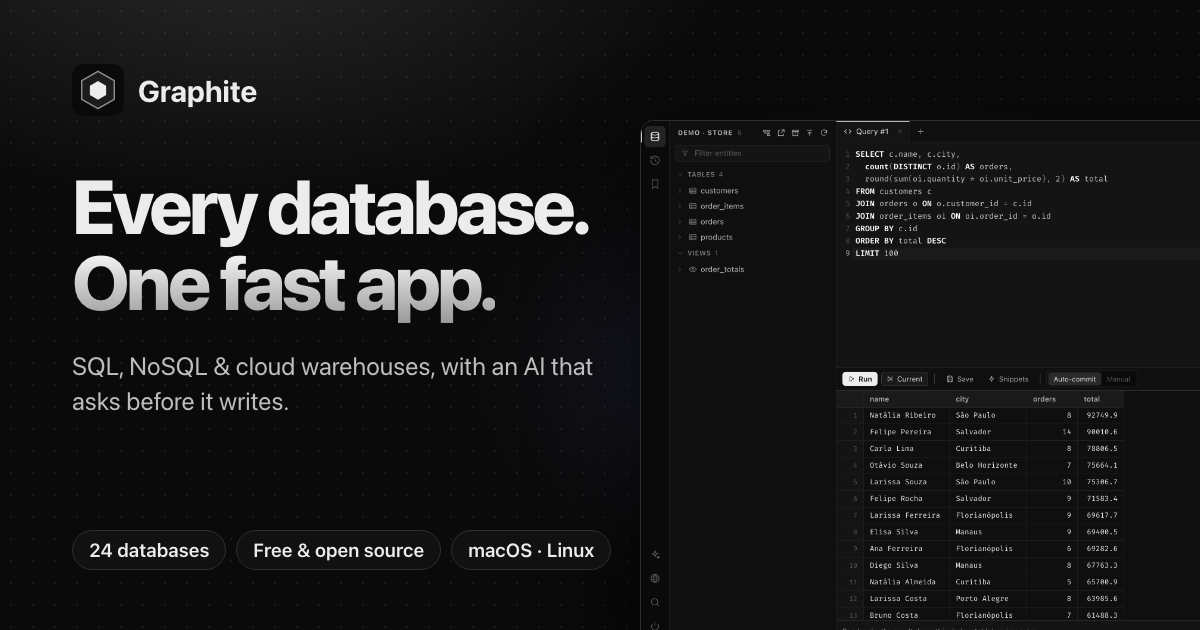
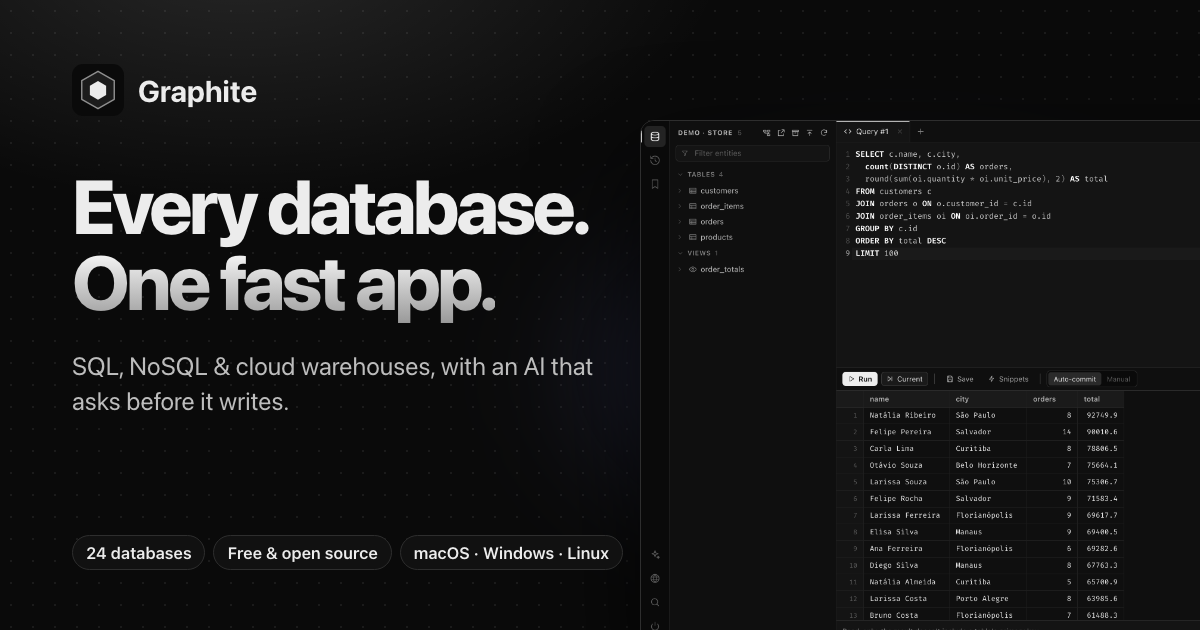
Site and README: SEO and discoverability
- Title and description with the words people search for (free database
  client, PostgreSQL / MySQL / MongoDB GUI), Windows included.
- Canonical, hreflang alternates and ?lang=pt / ?lang=es URLs, so search
  engines index the Portuguese and Spanish pages; title, description and
  canonical follow the language, and switching it updates the address.
- JSON-LD SoftwareApplication and FAQPage, keywords, robots, og:locale.
- A FAQ section (free? which databases? Windows/Linux? alternative to
  DBeaver/TablePlus/DataGrip? AI? passwords?) in the three languages.
- sitemap.xml with the language alternates.
- og.png and README badges now list Windows.

Changed region(s): [[0.0617, 0.8444, 0.5242, 0.9048]]

diff --git a/docs/index.html b/docs/index.html
@@ -3,24 +3,144 @@
 <head>
   <meta charset="utf-8">
   <meta name="viewport" content="width=device-width, initial-scale=1">
-  <title>Graphite — every database, one fast app</title>
-  <meta name="description" content="Browse, query and edit PostgreSQL, MySQL, SQL Server, Oracle, MongoDB, Redis, DynamoDB, ClickHouse and 16 more databases in one fast desktop app. Built-in AI assistant and MCP server, and every write waits for your approval. Free and open source for macOS and Linux.">
+  <title>Graphite — Free Database Client for PostgreSQL, MySQL, MongoDB &amp; 21 more</title>
+  <meta name="description" content="Free, open-source database GUI for macOS, Windows and Linux. Query and edit PostgreSQL, MySQL, SQL Server, Oracle, MongoDB, Redis, DynamoDB, ClickHouse and 16 more, with a built-in AI assistant and MCP server.">
+  <meta name="keywords" content="database client, database GUI, SQL client, SQL editor, free database tool, open source database client, PostgreSQL GUI, MySQL client, MongoDB GUI, Redis GUI, SQL Server client, Oracle client, DynamoDB GUI, ClickHouse client, DuckDB, SQLite browser, DBeaver alternative, TablePlus alternative, DataGrip alternative, Beekeeper Studio alternative, MCP server, AI SQL assistant">
+  <meta name="author" content="Julio Zimmermann">
+  <meta name="robots" content="index, follow, max-image-preview:large">
   <meta name="theme-color" content="#0a0a0a">
+  <link rel="canonical" href="https://julioczn.github.io/graphite/" data-canonical>
+  <link rel="alternate" hreflang="en" href="https://julioczn.github.io/graphite/">
+  <link rel="alternate" hreflang="pt-BR" href="https://julioczn.github.io/graphite/?lang=pt">
+  <link rel="alternate" hreflang="es" href="https://julioczn.github.io/graphite/?lang=es">
+  <link rel="alternate" hreflang="x-default" href="https://julioczn.github.io/graphite/">
+  <link rel="sitemap" type="application/xml" href="sitemap.xml">
   <link rel="icon" href="assets/icon.svg" type="image/svg+xml">
   <link rel="apple-touch-icon" href="assets/icon.png">
   <meta property="og:type" content="website">
   <meta property="og:site_name" content="Graphite">
+  <meta property="og:locale" content="en_US">
+  <meta property="og:locale:alternate" content="pt_BR">
+  <meta property="og:locale:alternate" content="es_ES">
   <meta property="og:title" content="Graphite — every database, one fast app">
-  <meta property="og:description" content="SQL, NoSQL and cloud warehouses: 24 databases in one free desktop app, with an AI assistant that asks before it writes.">
+  <meta property="og:description" content="SQL, NoSQL and cloud warehouses: 24 databases in one free, open-source desktop app for macOS, Windows and Linux, with an AI assistant that asks before it writes.">
   <meta property="og:url" content="https://julioczn.github.io/graphite/">
   <meta property="og:image" content="https://julioczn.github.io/graphite/assets/og.png">
   <meta property="og:image:width" content="1200">
   <meta property="og:image:height" content="630">
-  <meta property="og:image:alt" content="Graphite: every database, one fast app">
+  <meta property="og:image:alt" content="Graphite: every database, one fast app. 24 databases, free and open source, for macOS, Windows and Linux">
   <meta name="twitter:card" content="summary_large_image">
   <meta name="twitter:title" content="Graphite — every database, one fast app">
-  <meta name="twitter:description" content="SQL, NoSQL and cloud warehouses: 24 databases in one free desktop app, with an AI assistant that asks before it writes.">
+  <meta name="twitter:description" content="SQL, NoSQL and cloud warehouses: 24 databases in one free, open-source desktop app for macOS, Windows and Linux, with an AI assistant that asks before it writes.">
   <meta name="twitter:image" content="https://julioczn.github.io/graphite/assets/og.png">
+  <meta name="twitter:image:alt" content="Graphite: every database, one fast app">
+  <script type="application/ld+json">
+{
+  "@context": "https://schema.org",
+  "@type": "SoftwareApplication",
+  "name": "Graphite",
+  "alternateName": "Graphite database client",
+  "description": "Free, open-source desktop database client for 24 SQL, NoSQL and cloud warehouse databases, with a built-in AI assistant and MCP server.",
+  "applicationCategory": "DeveloperApplication",
+  "applicationSubCategory": "Database client",
+  "operatingSystem": "macOS, Windows 10, Windows 11, Linux",
+  "url": "https://julioczn.github.io/graphite/",
+  "downloadUrl": "https://github.com/julioczn/graphite/releases/latest",
+  "installUrl": "https://julioczn.github.io/graphite/#download",
+  "screenshot": [
+    "https://julioczn.github.io/graphite/assets/screenshots/query.png",
+    "https://julioczn.github.io/graphite/assets/screenshots/table.png",
+    "https://julioczn.github.io/graphite/assets/screenshots/er.png"
+  ],
+  "image": "https://julioczn.github.io/graphite/assets/og.png",
+  "license": "https://opensource.org/licenses/MIT",
+  "isAccessibleForFree": true,
+  "offers": {
+    "@type": "Offer",
+    "price": "0",
+    "priceCurrency": "USD"
+  },
+  "author": {
+    "@type": "Person",
+    "name": "Julio Zimmermann",
+    "url": "https://github.com/julioczn"
+  },
+  "sameAs": [
+    "https://github.com/julioczn/graphite"
+  ],
+  "inLanguage": [
+    "en",
+    "pt-BR",
+    "es"
+  ],
+  "featureList": [
+    "SQL editor with autocomplete",
+    "Editable data grid for SQL and NoSQL",
+    "ER diagrams",
+    "Backup, restore and export",
+    "AI assistant (bring your own key)",
+    "Built-in MCP server",
+    "Workspaces synced to your GitHub",
+    "Import connections from 13 tools"
+  ]
+}
+  </script>
+  <script type="application/ld+json">
+{
+  "@context": "https://schema.org",
+  "@type": "FAQPage",
+  "mainEntity": [
+    {
+      "@type": "Question",
+      "name": "Is Graphite free?",
+      "acceptedAnswer": {
+        "@type": "Answer",
+        "text": "Yes. Graphite is free and open source under the MIT license: no account, no ads, no telemetry and no paid tier."
+      }
+    },
+    {
+      "@type": "Question",
+      "name": "Which databases does Graphite support?",
+      "acceptedAnswer": {
+        "@type": "Answer",
+        "text": "24: PostgreSQL, MySQL, MariaDB, SQLite, SQL Server, Oracle, CockroachDB, TiDB, Firebird, GreengageDB, libSQL / Turso, ClickHouse, DuckDB, Trino, StarRocks, Snowflake, BigQuery, Amazon Redshift, MongoDB, Redis / Valkey, Apache Cassandra, ScyllaDB, Amazon DynamoDB and SurrealDB."
+      }
+    },
+    {
+      "@type": "Question",
+      "name": "Does it run on Windows, macOS and Linux?",
+      "acceptedAnswer": {
+        "@type": "Answer",
+        "text": "Yes. macOS on Apple Silicon and Intel; Windows 10 and 11, with an installer or a portable zip; and Linux, with packages for Debian and Ubuntu (.deb), Fedora, RHEL and Rocky (.rpm), Arch, and a portable AppImage."
+      }
+    },
+    {
+      "@type": "Question",
+      "name": "Is Graphite an alternative to DBeaver, TablePlus, DataGrip or Beekeeper Studio?",
+      "acceptedAnswer": {
+        "@type": "Answer",
+        "text": "It covers the same daily work (browsing, querying, editing rows in the grid, ER diagrams, backup and export) for SQL and NoSQL databases in one app. It also imports your saved connections from 13 tools, including DBeaver, DataGrip, Beekeeper Studio, TablePlus, Navicat, pgAdmin, MySQL Workbench and HeidiSQL."
+      }
+    },
+    {
+      "@type": "Question",
+      "name": "Can I use AI with my databases?",
+      "acceptedAnswer": {
+        "@type": "Answer",
+        "text": "Yes, with your own key. The built-in assistant works with the Anthropic API or any OpenAI-compatible provider, including local models with Ollama or LM Studio. Claude Code, Cursor, VS Code and Claude Desktop can use your connections through the built-in MCP server. Every write waits for your approval."
+      }
+    },
+    {
+      "@type": "Question",
+      "name": "Where are my passwords stored?",
+      "acceptedAnswer": {
+        "@type": "Answer",
+        "text": "Only on your computer, encrypted with the operating system's keychain. When you sync a workspace to your GitHub repository, passwords stay behind."
+      }
+    }
+  ]
+}
+  </script>
   <link rel="stylesheet" href="style.css">
 </head>
 <body>
@@ -322,6 +442,36 @@ sudo pacman -U ./graphite-dbclient-*-x86_64.pacman</code></pre>
       </div>
     </section>
 
+    <section id="faq" class="wrap section">
+      <h2 class="reveal" data-i18n="faq.title">Frequently asked questions</h2>
+      <div class="faq reveal">
+        <details class="faq-item">
+          <summary data-i18n="faq.q1">Is Graphite free?</summary>
+          <p data-i18n="faq.a1">Yes. Graphite is free and open source under the MIT license: no account, no ads, no telemetry and no paid tier.</p>
+        </details>
+        <details class="faq-item">
+          <summary data-i18n="faq.q2">Which databases does Graphite support?</summary>
+          <p data-i18n="faq.a2">24: PostgreSQL, MySQL, MariaDB, SQLite, SQL Server, Oracle, CockroachDB, TiDB, Firebird, GreengageDB, libSQL / Turso, ClickHouse, DuckDB, Trino, StarRocks, Snowflake, BigQuery, Amazon Redshift, MongoDB, Redis / Valkey, Apache Cassandra, ScyllaDB, Amazon DynamoDB and SurrealDB.</p>
+        </details>
+        <details class="faq-item">
+          <summary data-i18n="faq.q3">Does it run on Windows, macOS and Linux?</summary>
+          <p data-i18n="faq.a3">Yes. macOS on Apple Silicon and Intel; Windows 10 and 11, with an installer or a portable zip; and Linux, with packages for Debian and Ubuntu (.deb), Fedora, RHEL and Rocky (.rpm), Arch, and a portable AppImage.</p>
+        </details>
+        <details class="faq-item">
+          <summary data-i18n="faq.q4">Is Graphite an alternative to DBeaver, TablePlus, DataGrip or Beekeeper Studio?</summary>
+          <p data-i18n="faq.a4">It covers the same daily work (browsing, querying, editing rows in the grid, ER diagrams, backup and export) for SQL and NoSQL databases in one app. It also imports your saved connections from 13 tools, including DBeaver, DataGrip, Beekeeper Studio, TablePlus, Navicat, pgAdmin, MySQL Workbench and HeidiSQL.</p>
+        </details>
+        <details class="faq-item">
+          <summary data-i18n="faq.q5">Can I use AI with my databases?</summary>
+          <p data-i18n="faq.a5">Yes, with your own key. The built-in assistant works with the Anthropic API or any OpenAI-compatible provider, including local models with Ollama or LM Studio. Claude Code, Cursor, VS Code and Claude Desktop can use your connections through the built-in MCP server. Every write waits for your approval.</p>
+        </details>
+        <details class="faq-item">
+          <summary data-i18n="faq.q6">Where are my passwords stored?</summary>
+          <p data-i18n="faq.a6">Only on your computer, encrypted with the operating system&#x27;s keychain. When you sync a workspace to your GitHub repository, passwords stay behind.</p>
+        </details>
+      </div>
+    </section>
+
     <section class="wrap section">
       <div class="final reveal">
         <img src="assets/icon.svg" width="64" height="64" alt="">
@@ -345,6 +495,7 @@ sudo pacman -U ./graphite-dbclient-*-x86_64.pacman</code></pre>
         <a href="https://github.com/julioczn/graphite">GitHub</a>
         <a href="https://github.com/julioczn/graphite/releases" data-i18n="foot.releases">Releases</a>
         <a href="https://github.com/julioczn/graphite/blob/main/CHANGELOG.md" data-i18n="foot.changelog">Changelog</a>
+        <a href="#faq" data-i18n="foot.faq">FAQ</a>
         <a href="https://github.com/julioczn/graphite/issues" data-i18n="foot.issues">Report an issue</a>
       </span>
     </div>

diff --git a/docs/site.js b/docs/site.js
@@ -166,6 +166,22 @@
       'alt.table': 'Editando as linhas de uma tabela na grade',
       'final.t': 'Chega de pular entre clientes de banco.',
       'final.d': 'Postgres de manhã, Mongo depois do almoço, aquela tabela do DynamoDB às 2 da manhã — um app, um atalho, um lugar para todas as suas conexões.',
+      'meta.title': 'Graphite — Cliente de banco de dados gratuito para PostgreSQL, MySQL, MongoDB e mais 21',
+      'meta.desc': 'Cliente de banco de dados gratuito e open source para macOS, Windows e Linux. Consulte e edite PostgreSQL, MySQL, SQL Server, Oracle, MongoDB, Redis, DynamoDB, ClickHouse e mais 16, com assistente de IA e servidor MCP.',
+      'faq.title': 'Perguntas frequentes',
+      'faq.q1': 'O Graphite é gratuito?',
+      'faq.a1': 'Sim. O Graphite é gratuito e open source, com licença MIT: sem conta, sem anúncios, sem telemetria e sem versão paga.',
+      'faq.q2': 'Quais bancos de dados o Graphite suporta?',
+      'faq.a2': '24: PostgreSQL, MySQL, MariaDB, SQLite, SQL Server, Oracle, CockroachDB, TiDB, Firebird, GreengageDB, libSQL / Turso, ClickHouse, DuckDB, Trino, StarRocks, Snowflake, BigQuery, Amazon Redshift, MongoDB, Redis / Valkey, Apache Cassandra, ScyllaDB, Amazon DynamoDB e SurrealDB.',
+      'faq.q3': 'Funciona no Windows, no macOS e no Linux?',
+      'faq.a3': 'Sim. macOS em Apple Silicon e Intel; Windows 10 e 11, com instalador ou zip portátil; e Linux, com pacotes para Debian e Ubuntu (.deb), Fedora, RHEL e Rocky (.rpm), Arch e um AppImage portátil.',
+      'faq.q4': 'O Graphite é uma alternativa ao DBeaver, TablePlus, DataGrip ou Beekeeper Studio?',
+      'faq.a4': 'Ele cobre o mesmo trabalho do dia a dia (navegar, consultar, editar linhas na grade, diagramas ER, backup e exportação) para bancos SQL e NoSQL num app só. E importa suas conexões salvas de 13 ferramentas, entre elas DBeaver, DataGrip, Beekeeper Studio, TablePlus, Navicat, pgAdmin, MySQL Workbench e HeidiSQL.',
+      'faq.q5': 'Dá para usar IA com os meus bancos?',
+      'faq.a5': 'Sim, com a sua própria chave. O assistente embutido funciona com a API da Anthropic ou qualquer provedor compatível com a OpenAI, inclusive modelos locais com Ollama ou LM Studio. Claude Code, Cursor, VS Code e Claude Desktop podem usar suas conexões pelo servidor MCP embutido. Toda escrita espera a sua aprovação.',
+      'faq.q6': 'Onde ficam as minhas senhas?',
+      'faq.a6': 'Só no seu computador, cifradas pelo chaveiro do sistema operacional. Quando você sincroniza um workspace com o seu repositório no GitHub, as senhas ficam de fora.',
+      'foot.faq': 'Perguntas frequentes',
     },
     es: {
       'nav.features': 'Funciones',
@@ -323,6 +339,22 @@
       'alt.table': 'Editando las filas de una tabla',
       'final.t': 'Deja de saltar entre clientes de bases de datos.',
       'final.d': 'Postgres por la mañana, Mongo después del almuerzo, esa tabla de DynamoDB a las 2 de la madrugada — una app, un atajo, un lugar para todas tus conexiones.',
+      'meta.title': 'Graphite — Cliente de bases de datos gratuito para PostgreSQL, MySQL, MongoDB y 21 más',
+      'meta.desc': 'Cliente de bases de datos gratuito y de código abierto para macOS, Windows y Linux. Consulta y edita PostgreSQL, MySQL, SQL Server, Oracle, MongoDB, Redis, DynamoDB, ClickHouse y 16 más, con asistente de IA y servidor MCP.',
+      'faq.title': 'Preguntas frecuentes',
+      'faq.q1': '¿Graphite es gratis?',
+      'faq.a1': 'Sí. Graphite es gratuito y de código abierto, con licencia MIT: sin cuenta, sin anuncios, sin telemetría y sin versión de pago.',
+      'faq.q2': '¿Qué bases de datos soporta Graphite?',
+      'faq.a2': '24: PostgreSQL, MySQL, MariaDB, SQLite, SQL Server, Oracle, CockroachDB, TiDB, Firebird, GreengageDB, libSQL / Turso, ClickHouse, DuckDB, Trino, StarRocks, Snowflake, BigQuery, Amazon Redshift, MongoDB, Redis / Valkey, Apache Cassandra, ScyllaDB, Amazon DynamoDB y SurrealDB.',
+      'faq.q3': '¿Funciona en Windows, macOS y Linux?',
+      'faq.a3': 'Sí. macOS en Apple Silicon e Intel; Windows 10 y 11, con instalador o zip portátil; y Linux, con paquetes para Debian y Ubuntu (.deb), Fedora, RHEL y Rocky (.rpm), Arch y un AppImage portátil.',
+      'faq.q4': '¿Graphite es una alternativa a DBeaver, TablePlus, DataGrip o Beekeeper Studio?',
+      'faq.a4': 'Cubre el mismo trabajo diario (navegar, consultar, editar filas en la grilla, diagramas ER, backup y exportación) para bases SQL y NoSQL en una sola app. Además importa tus conexiones guardadas de 13 herramientas, entre ellas DBeaver, DataGrip, Beekeeper Studio, TablePlus, Navicat, pgAdmin, MySQL Workbench y HeidiSQL.',
+      'faq.q5': '¿Puedo usar IA con mis bases de datos?',
+      'faq.a5': 'Sí, con tu propia clave. El asistente integrado funciona con la API de Anthropic o cualquier proveedor compatible con OpenAI, incluidos modelos locales con Ollama o LM Studio. Claude Code, Cursor, VS Code y Claude Desktop pueden usar tus conexiones a través del servidor MCP integrado. Toda escritura espera tu aprobación.',
+      'faq.q6': '¿Dónde se guardan mis contraseñas?',
+      'faq.a6': 'Solo en tu computadora, cifradas con el llavero del sistema operativo. Cuando sincronizas un workspace con tu repositorio de GitHub, las contraseñas se quedan fuera.',
+      'foot.faq': 'Preguntas frecuentes',
     },
   }
   var EN_EXTRA = { 'dl.for': 'Download for {os}', 'dl.version': 'Current version: {v}.' }
@@ -342,9 +374,28 @@
     return s
   }
 
+  // Search engines index each language at its own URL (?lang=pt, ?lang=es; see
+  // the hreflang links): title, description and canonical follow the language.
+  var BASE = 'https://julioczn.github.io/graphite/'
+  var head = {
+    title: document.title,
+    desc: document.querySelector('meta[name="description"]').content,
+  }
+  function applyHead() {
+    document.title = lang === 'en' ? head.title : tr('meta.title')
+    document.querySelector('meta[name="description"]').content = lang === 'en' ? head.desc : tr('meta.desc')
+    var canonical = document.querySelector('link[data-canonical]')
+    if (canonical) canonical.href = lang === 'en' ? BASE : BASE + '?lang=' + lang
+  }
+  function urlLang() {
+    var m = /[?&]lang=(en|pt|es)\b/.exec(location.search)
+    return m ? m[1] : null
+  }
+
   function apply(next) {
     lang = T[next] ? next : 'en'
     document.documentElement.lang = { en: 'en', pt: 'pt-BR', es: 'es' }[lang]
+    applyHead()
     document.querySelectorAll('[data-i18n]').forEach(function (el) {
       // Only our own static strings are inserted (some contain <code>).
       el.innerHTML = lang === 'en' ? original[el.dataset.i18n] : tr(el.dataset.i18n)
@@ -442,6 +493,13 @@
   document.getElementById('lang').addEventListener('change', function (e) {
     try { localStorage.setItem('graphite-site-lang', e.target.value) } catch (err) {}
     apply(e.target.value)
+    // Keep the language in the address, so a shared link opens in it.
+    try {
+      var u = new URL(location.href)
+      if (lang === 'en') u.searchParams.delete('lang')
+      else u.searchParams.set('lang', lang)
+      history.replaceState(null, '', u.pathname + u.search + u.hash)
+    } catch (err) {}
   })
 
   // --- hero: typed database names ---------------------------------------------
@@ -527,6 +585,6 @@
     items.forEach(function (el) { el.classList.add('in') })
   }
 
-  apply(storedLang() || browserLang())
+  apply(urlLang() || storedLang() || browserLang())
   loadRelease()
 })()

diff --git a/docs/style.css b/docs/style.css
@@ -313,3 +313,18 @@ details p { margin: 10px 0; }
 .dl-src { margin: 14px 0 0; color: var(--fg-3); font-size: 13.5px; overflow-wrap: anywhere; }
 .dl-src strong { color: var(--fg-2); }
 .dl .row .btn { white-space: nowrap; }
+
+/* FAQ */
+.faq { max-width: 860px; margin: 40px 0 0; border-top: 1px solid var(--line); }
+.faq-item { border-bottom: 1px solid var(--line); }
+.faq-item summary {
+  display: flex; justify-content: space-between; align-items: center; gap: 16px; padding: 20px 4px;
+  cursor: pointer; list-style: none; font-size: 17px; font-weight: 600; color: var(--fg);
+}
+.faq-item summary::-webkit-details-marker { display: none; }
+.faq-item summary::after { content: "+"; flex: none; color: var(--fg-3); font-size: 22px; font-weight: 400; transition: transform 0.2s; }
+.faq-item[open] summary::after { transform: rotate(45deg); }
+.faq-item summary:hover { color: var(--fg); }
+.faq-item summary:focus-visible { outline: 2px solid var(--fg-2); outline-offset: 2px; border-radius: 6px; }
+.faq-item p { margin: 0; padding: 0 4px 22px; color: var(--fg-2); font-size: 15.5px; line-height: 1.65; }
+@media (max-width: 560px) { .faq-item summary { font-size: 16px; padding: 16px 2px; } }

diff --git a/README.pt-BR.md b/README.pt-BR.md
@@ -5,15 +5,15 @@
 <h1 align="center">Graphite</h1>
 
 <p align="center">
-  Cliente desktop rápido e feito para o teclado para <b>24 bancos de dados</b>: SQL, NoSQL e data warehouses na nuvem<br>
-  com assistente de AI e servidor MCP para os seus próprios agentes.
+  Cliente de banco de dados gratuito, open source e feito para o teclado, para <b>24 bancos de dados</b>: SQL, NoSQL e data warehouses na nuvem<br>
+  no macOS, Windows e Linux, com assistente de AI e servidor MCP para os seus próprios agentes.
 </p>
 
 <p align="center">
   <a href="https://github.com/julioczn/graphite/releases/latest"><img alt="Última versão" src="https://img.shields.io/github/v/release/julioczn/graphite?label=release&color=555"></a>
   <a href="https://github.com/julioczn/graphite/actions/workflows/ci.yml"><img alt="CI" src="https://github.com/julioczn/graphite/actions/workflows/ci.yml/badge.svg"></a>
   <a href="LICENSE"><img alt="Licença MIT" src="https://img.shields.io/badge/license-MIT-555"></a>
-  <img alt="macOS e Linux" src="https://img.shields.io/badge/platform-macOS%20%7C%20Linux-555">
+  <img alt="macOS, Windows e Linux" src="https://img.shields.io/badge/platform-macOS%20%7C%20Windows%20%7C%20Linux-555">
 </p>
 
 <p align="center">

diff --git a/README.md b/README.md
@@ -5,15 +5,15 @@
 <h1 align="center">Graphite</h1>
 
 <p align="center">
-  A fast, keyboard-friendly desktop client for <b>24 databases</b>: SQL, NoSQL and cloud warehouses<br>
-  with an AI assistant and an MCP server for your own agents.
+  A free, open-source and keyboard-friendly database client (GUI) for <b>24 databases</b>: SQL, NoSQL and cloud warehouses<br>
+  on macOS, Windows and Linux, with an AI assistant and an MCP server for your own agents.
 </p>
 
 <p align="center">
   <a href="https://github.com/julioczn/graphite/releases/latest"><img alt="Latest release" src="https://img.shields.io/github/v/release/julioczn/graphite?label=release&color=555"></a>
   <a href="https://github.com/julioczn/graphite/actions/workflows/ci.yml"><img alt="CI" src="https://github.com/julioczn/graphite/actions/workflows/ci.yml/badge.svg"></a>
   <a href="LICENSE"><img alt="MIT license" src="https://img.shields.io/badge/license-MIT-555"></a>
-  <img alt="macOS and Linux" src="https://img.shields.io/badge/platform-macOS%20%7C%20Linux-555">
+  <img alt="macOS, Windows and Linux" src="https://img.shields.io/badge/platform-macOS%20%7C%20Windows%20%7C%20Linux-555">
 </p>
 
 <p align="center">
